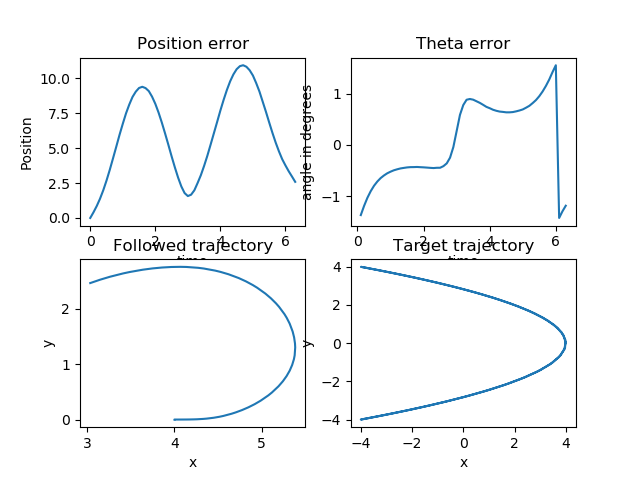
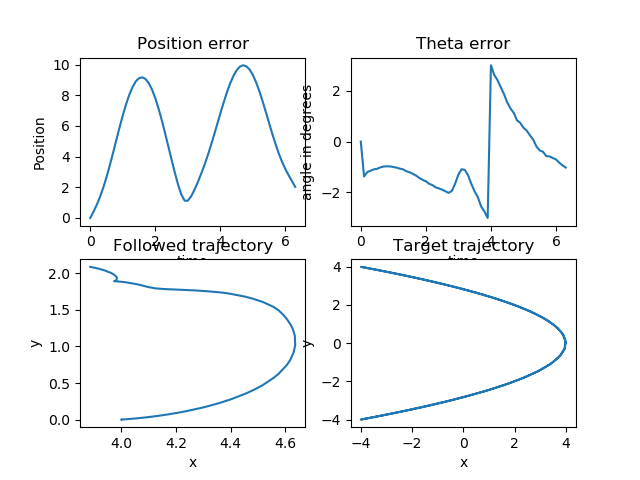
final commit

diff --git a/SC649/scripts/error_generator.py b/SC649/scripts/error_generator.py
@@ -1,7 +1,7 @@
 #!/usr/bin/env python
 
-from cmath import sqrt
-from math import atan
+from cmath import pi, sqrt
+from math import atan, atan2, sin, cos
 import rospy
 from nav_msgs.msg import Odometry
 import numpy as np
@@ -44,8 +44,6 @@ if __name__ == '__main__':
     y_current_arr = []
     theta_current_arr =[]
     for x in range(length):
-        print(robot.bot_pose[0])
-        print(robot.bot_pose[1])
         #generate errors
         time1=waypointdata[x,0]
         x_target=waypointdata[x,1]
@@ -54,9 +52,15 @@ if __name__ == '__main__':
         y_current=robot.bot_pose[1]
         theta_current=robot.bot_th
         Epos = abs(sqrt((x_target-x_current)**2 + (y_target-y_current)**2))
-        ratio = (y_current-y_target)/(x_current-x_target)
-        Etheta =  atan(ratio)
+        theta_target= atan2((y_current-y_target),(x_current-x_target))
+        Etheta = (theta_target - theta_current)
         
+        if(Etheta <= -pi):
+            Etheta = Etheta + 2*pi
+        
+        if(Etheta > pi):
+            Etheta = Etheta - 2*pi
+
         #publish to topic "Error" with message of custom message type "Pose2D" from node named "Error_Generator"
         #pub=rospy.Publisher('/Error',Pose2D,queue_size=10)
         err_msg = Pose2D()

diff --git a/SC649/scripts/controller.py b/SC649/scripts/controller.py
@@ -2,6 +2,7 @@
 
 import rospy
 from geometry_msgs.msg import Pose2D, Twist
+from math import cos
 
 class SC649:
 
@@ -33,7 +34,7 @@ if __name__ == '__main__':
     while not rospy.is_shutdown():
         Epos = robot.Epos
         Etheta = robot.Etheta
-        v_lin = float(K1)*Epos
+        v_lin = float(K1)*Epos*cos(Etheta)
         v_ang = -1*float(K2)*Etheta
 
         print(v_lin)
